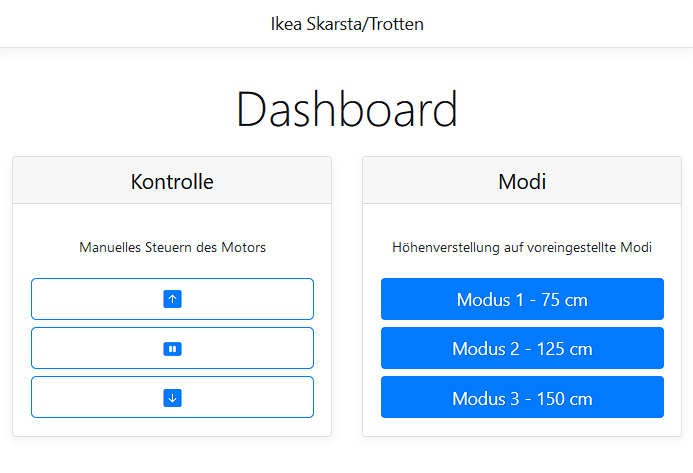
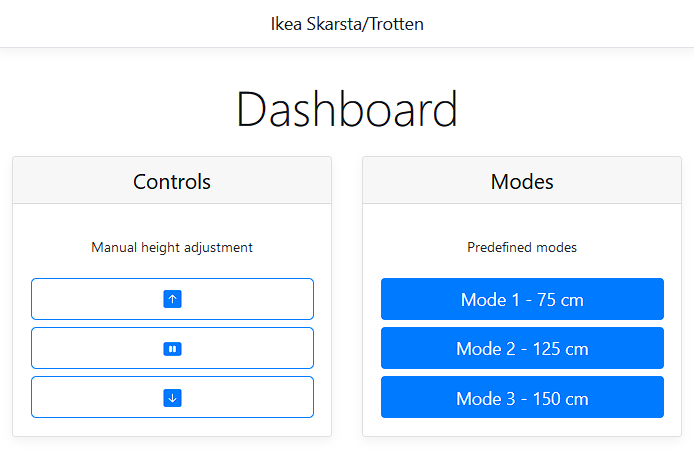
Translate dashboard into english

diff --git a/src/main/index.h b/src/main/index.h
@@ -44,11 +44,11 @@ const char MAIN_page[] PROGMEM = R"=====(
            <div class="card-deck mb-3 text-center">
               <div class="card mb-4 box-shadow">
                  <div class="card-header">
-                    <h4 class="my-0 font-weight-normal">Kontrolle</h4>
+                    <h4 class="my-0 font-weight-normal">Controls</h4>
                  </div>
                  <div class="card-body">
                     <ul class="list-unstyled mt-3 mb-4">
-                       <li>Manuelles Steuern des Motors</li>
+                       <li>Manual height adjustment</li>
                     </ul>
                     <a type="button" class="btn btn-lg btn-block btn-outline-primary" href="/motor/up"><i class="bi bi-arrow-up-square-fill"></i></a>
                     <a type="button" class="btn btn-lg btn-block btn-outline-primary" href="/motor/stop"><i class="bi bi-pause-btn-fill"></i></a>
@@ -57,15 +57,15 @@ const char MAIN_page[] PROGMEM = R"=====(
               </div>
               <div class="card mb-4 box-shadow">
                  <div class="card-header">
-                    <h4 class="my-0 font-weight-normal">Modi</h4>
+                    <h4 class="my-0 font-weight-normal">Modes</h4>
                  </div>
                  <div class="card-body">
                     <ul class="list-unstyled mt-3 mb-4">
-                       <li>Höhenverstellung auf voreingestellte Modi</li>
+                       <li>Predefined modes</li>
                     </ul>
-                    <a type="button" class="btn btn-lg btn-block btn-primary" href="/height/75">Modus 1 - 75 cm</a>
-                    <a type="button" class="btn btn-lg btn-block btn-primary" href="/height/125">Modus 2 - 125 cm</a>
-                    <a type="button" class="btn btn-lg btn-block btn-primary" href="/height/150">Modus 3 - 150 cm</a>
+                    <a type="button" class="btn btn-lg btn-block btn-primary" href="/height/75">Mode 1 - 75 cm</a>
+                    <a type="button" class="btn btn-lg btn-block btn-primary" href="/height/125">Mode 2 - 125 cm</a>
+                    <a type="button" class="btn btn-lg btn-block btn-primary" href="/height/150">Mode 3 - 150 cm</a>
                  </div>
               </div>
            </div>

diff --git a/README.md b/README.md
@@ -1,9 +1,9 @@
 # ESP8266-Ikea-Skarsta-Trotten-Web-Dashboard
 ![arduino build workflow](https://github.com/flosommerfeld/ESP8266-Ikea-Skarsta-WebDashboard/actions/workflows/build-arduino-sketches.yml/badge.svg)
 
-Web Dashboard for controlling a Ikea Skarsta/Trotten table which comes from the factory with manual height adjustment.
+Web Dashboard for controlling an Ikea Skarsta/Trotten table which comes from the factory with manual height adjustment.
 
-The hardware selection and 3D models of this project are mainly based on the [Instructable](https://www.instructables.com/Motorizing-an-IKEA-SKARSTA-Table/) of user pashiran. In comparison this project uses a website ("web dashboard") for controlling the table height and a ultrasonic sensor for measuring the height instead of an optical endstop. There are no hardware switches, just the website which can be accessed via the hosted ESP8266 server (which shall be in the same network as your clients).
+The hardware selection and 3D models of this project are mainly based on the [Instructable](https://www.instructables.com/Motorizing-an-IKEA-SKARSTA-Table/) of user pashiran. In comparison, this project uses a website ("web dashboard") for controlling the table height and a ultrasonic sensor for measuring the height instead of an optical endstop. There are no hardware switches, just the website which can be accessed via the hosted ESP8266 server (which shall be in the same network as your clients).
 
 ## Showcase
 ![](res/dashboard.png)
@@ -13,7 +13,7 @@ This circuit ([source file](res/circuit.fzz)) was designed with [Fritzing](https
 ![](res/circuit.png)
 
 ## 3D Model
-As previously mentioned, the [3D models](#credits) of user pashiran were used in this project.
+The [3D models](#credits) of user pashiran were used and adapted in this project.
 Small holes were drilled into the table in order to screw the `Body1.stl` with M3 screws to it. After installing `Body1.stl`, the  `Body3.stl` (case) was screwed on to it.  Some M3 insert nuts were installed to `Body1.stl` with a soldering iron.
 
 Body1.stl ([Download](https://content.instructables.com/ORIG/FHK/3039/KJWV4CPV/FHK3039KJWV4CPV.stl)) | Body3.stl ([Download](https://content.instructables.com/ORIG/F6Q/4HMT/KJWV4CPX/F6Q4HMTKJWV4CPX.stl))
@@ -38,7 +38,7 @@ Used dependencies for this project are:
 The dependencies can be installed via the [standard procedure for installing Arduino libraries](https://docs.arduino.cc/software/ide-v1/tutorials/installing-libraries):
 
 1. Open the Arduino IDE, select `Sketch` -> `Include Library` -> `Manage Libraries...`.
-2. Search for `Cytron Motor Drivers Library`/`HCSR04 ultrasonic sensor Library`.
+2. Search for `Cytron Motor Drivers Library by Cytron Technologies Sdn Bhd`/`HCSR04 ultrasonic sensor Library by gamegine`.
 3. Click `Install` to install the library.
 4. Restart the Arduino IDE.
 
@@ -64,3 +64,5 @@ Total costs approx. 48 € if you are patient enough to wait for the Aliexpress 
 
 ## Credits
 - [3D design files](https://www.instructables.com/Motorizing-an-IKEA-SKARSTA-Table/) by user pashiran
+- [Arduino library for HCSR04 ultrasonic sensor](https://github.com/gamegine/HCSR04-ultrasonic-sensor-lib) by gamegine
+- [Arduino library for Cytron Motor Drivers](https://github.com/CytronTechnologies/CytronMotorDriver) by Cytron
